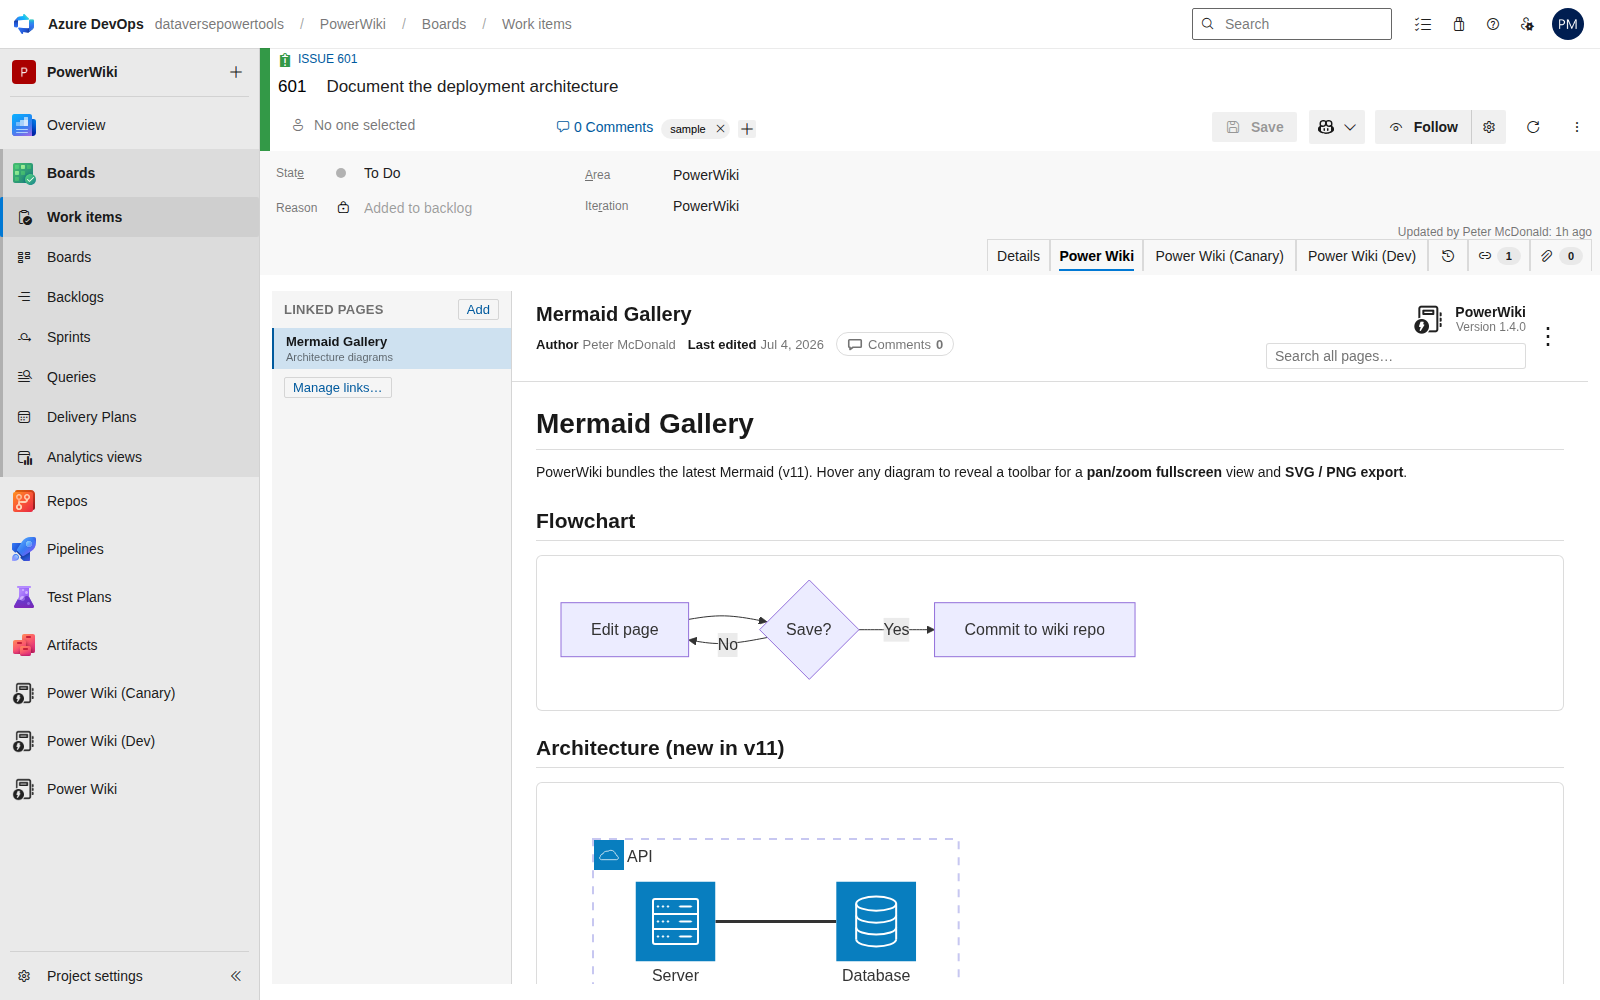
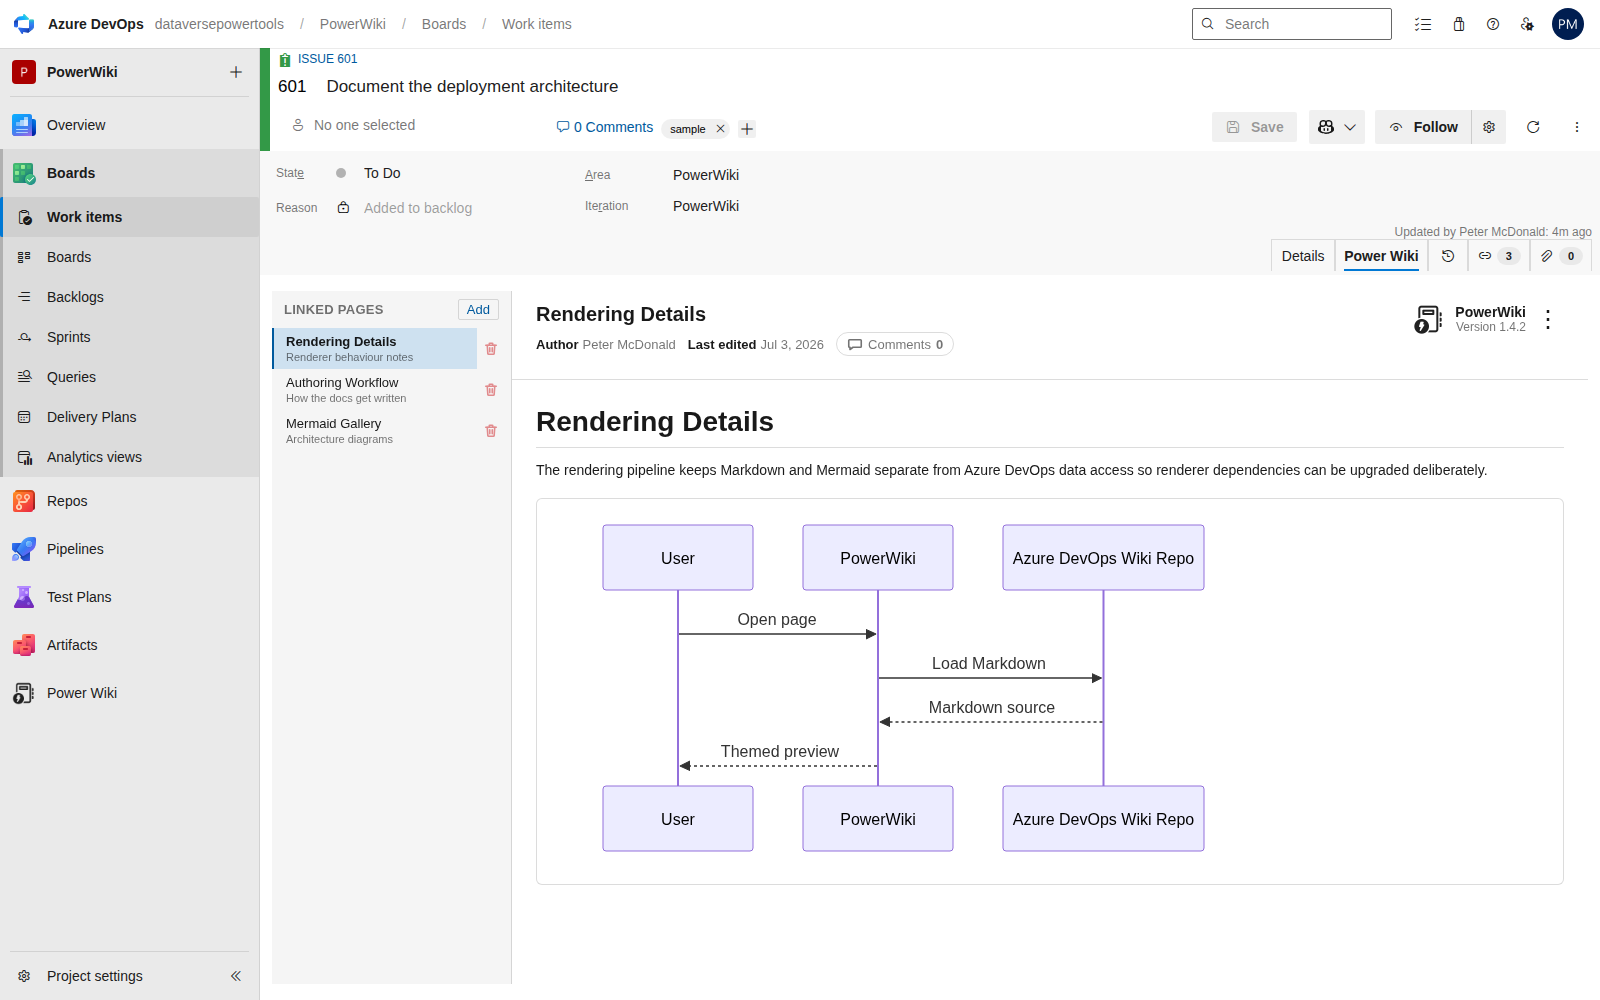
Reshoot the store screenshots against 1.4.2, and hide the variant builds (AB#614)
The work item shot was from 1.4.0 and showed two things 1.4.2 removed -
the "Manage links..." button and the whole-wiki search box - and none of
what it added. Retaken against the published build with three linked
pages, so the rail and its unlink buttons both read.

New: powerwiki-linked-work-items.png, the panel on a page with four
linked items across three states, so the ordering and the dimming are
visible rather than described. There was no screenshot of the reverse
view at all.

Both are referenced from raw.githubusercontent rather than gallerycdn.
The gallerycdn URLs already in overview.md embed a version and a build
timestamp, so they pin to whatever release happened to be current when
someone pasted them - three of them still point at 1.2.3.

hideVariantBuilds() is the other half. The dev and canary builds are
installed in this organization, which puts three "Power Wiki" entries in
the project nav and three tabs on the work item form. No customer has
them - they are private extensions with different ids shared only here -
so a store screenshot showing them advertises something nobody can
install and makes the real entry look ambiguous.

It hides nodes in the page being photographed rather than changing what
is installed. Disabling the variants for real would be an organization-
wide change affecting anyone else using them, to make a picture look
right. Matching is on the "(Dev)"/"(Canary)" label because contribution
[…]

diff --git a/overview.md b/overview.md
@@ -72,7 +72,9 @@ Wiki pages are linked to work items using Azure DevOps' own **Wiki Page** links 
 
 **No new permissions either way.** Linking goes through the work item form itself, and the reverse lookup is a read, so PowerWiki still asks only for read access to work items and your organisation does not have to re-approve anything.
 
-![The Power Wiki tab on an Azure DevOps work item, listing the item's linked wiki pages beside the rendered page](https://raw.githubusercontent.com/pete-mc/PowerWiki/main/media/screenshots/powerwiki-workitem.png)
+![The Power Wiki tab on an Azure DevOps work item, listing the item's three linked wiki pages with unlink buttons beside the rendered page](https://raw.githubusercontent.com/pete-mc/PowerWiki/main/media/screenshots/powerwiki-workitem.png)
+
+![A wiki page with the Linked work items panel open, showing the work items that link to it with open ones first and finished ones dimmed](https://raw.githubusercontent.com/pete-mc/PowerWiki/main/media/screenshots/powerwiki-linked-work-items.png)
 
 ## History and stewardship
 
